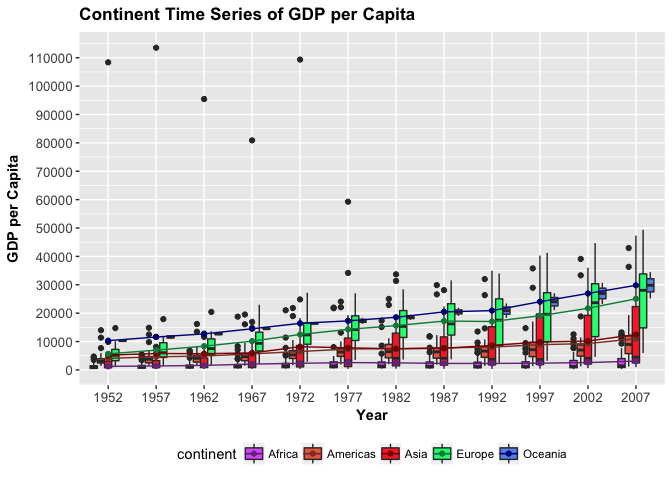
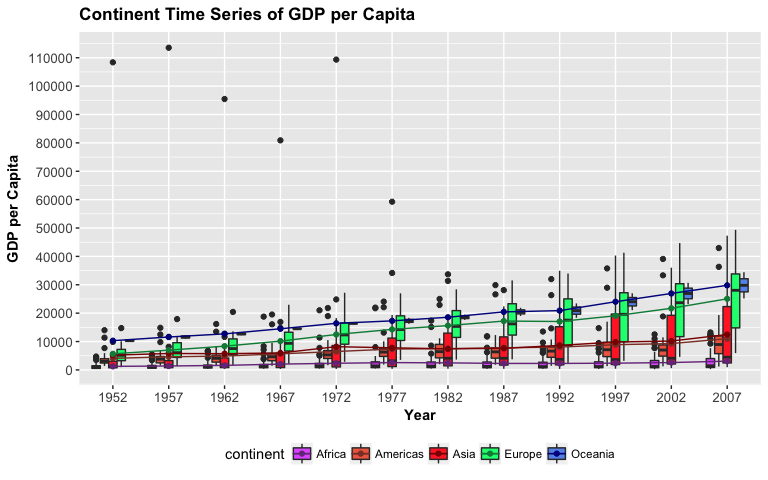
Changes in R Markdown file.

diff --git a/hw02/hw2_dplyr_ggplot2.md b/hw02/hw2_dplyr_ggplot2.md
@@ -11,6 +11,7 @@ First of all, we need to load the corresponding libraries.
 ``` r
 suppressPackageStartupMessages(library(tidyverse))
 suppressPackageStartupMessages(library(gapminder))
+knitr::opts_chunk$set(fig.width=8, fig.height=5)
 ```
 
 Smell Test the Data
@@ -111,7 +112,7 @@ boxplot(gdpPercap ~ year, data = gapminder, main = "Global Evolution of Gross Do
 
 ![](hw2_dplyr_ggplot2_files/figure-markdown_github-ascii_identifiers/unnamed-chunk-9-1.png)
 
-Function `boxplot()` provides "not so cool" side-by-side boxplots, unlike `ggplot2`. Although, we can see that the spread gets larger and larger as time goes by. This suggests that there might be differences in `gdpPercap`, if we explore the dataset more in detail (possibly by `continent`?). Hence, before starting with the good stuff (`ggplot2`), we can get a table of the categorical variable `continent` for single occurences.
+Function `boxplot()` provides "not so cool" side-by-side boxplots, unlike `ggplot2`. Although, we can see that the spread gets larger and larger as time goes by. This suggests that there might be differences in `gdpPercap`, if we explore the dataset more in detail (possibly by `continent`?). Hence, before starting with the good stuff (`ggplot2`), we can get a table of the categorical variable `continent` for single occurrences.
 
 ``` r
 gapminder %>% group_by(continent) %>% summarize(n = n_distinct(country))
